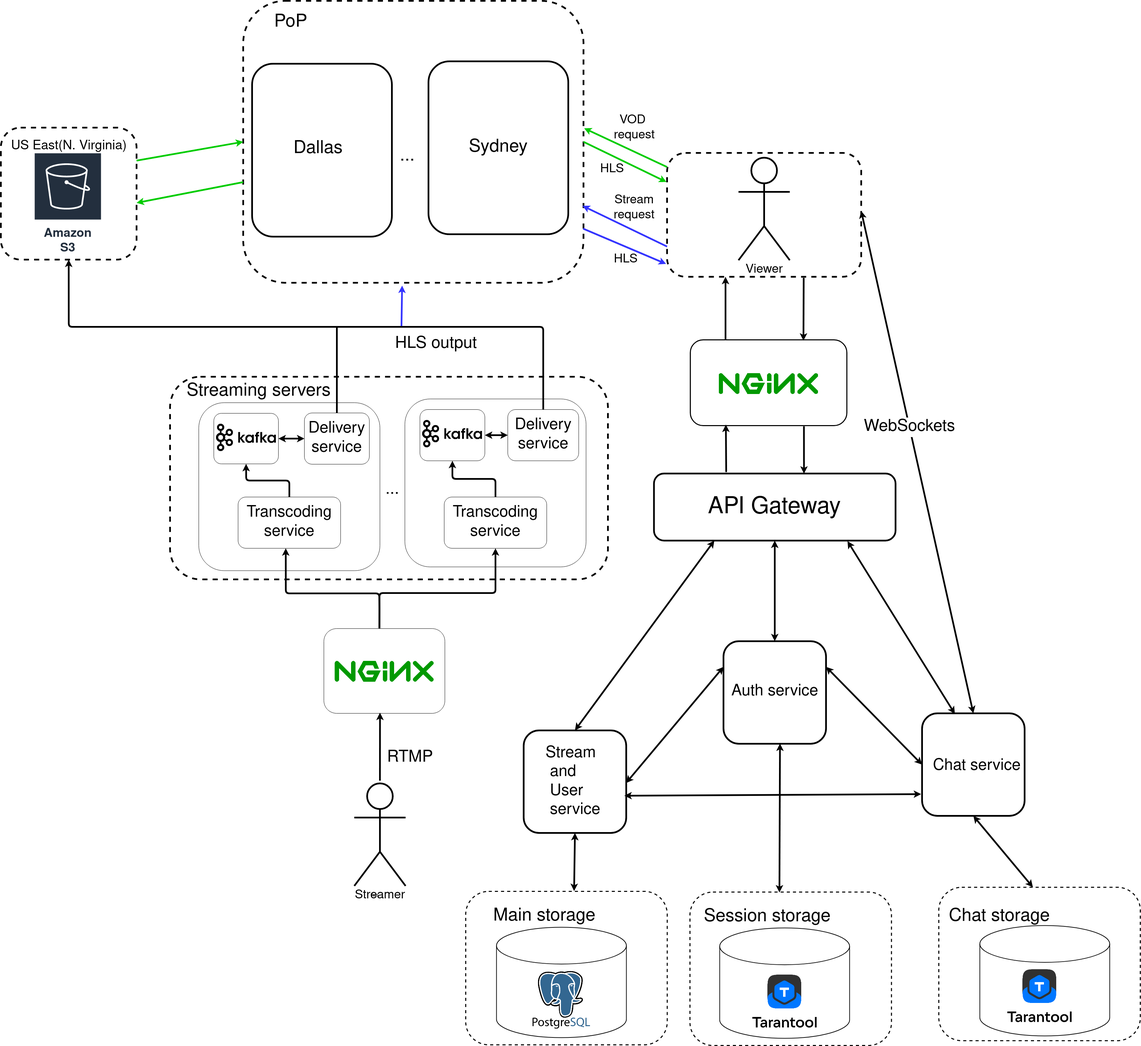
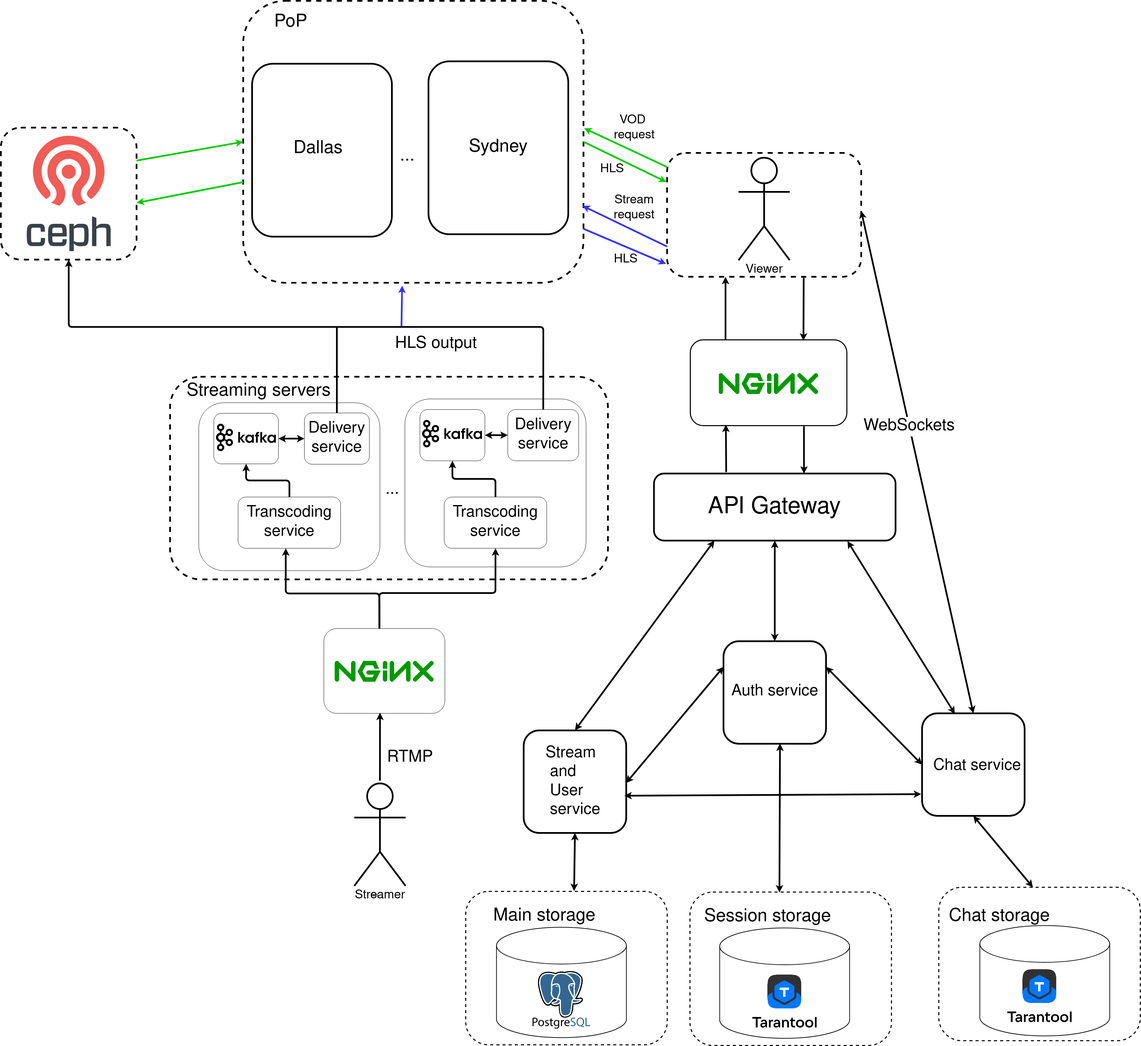
fix

Changed region(s): [[0.0312, 0.1241, 0.0935, 0.2483], [0.7789, 0.4035, 0.8101, 0.4345]]

diff --git a/README.md b/README.md
@@ -116,40 +116,55 @@
 | Компаньоны | 14 дней       |
 | Остальные  | 7 дней        |
 
-По [статистике](https://streamscharts.com/overview/partners) общее количество партнеров Twitch составляет **63 тыс**, а общее число компаньонов — **2.1 млн**.
-Пусть каждый партнер проводит 5 трансляций в неделю (в месяц примерно 24 трансляции), как указывалось выше средняя продолжительность трансляции — 2 часа, допустим, что партнеры производят больше контента, чем обычные пользователи и их трансляции длятся в **1.5 раза** больше и проводят трансляции в более хорошем качестве 1080 60fps. В этом случае битрейт будет составлять 6000kbps (по [рекомендациям][6] twitch), тогда на хранение трансляций партнеров за 2 месяца требуется:
+По [статистике](https://streamscharts.com/overview/partners) общее количество партнеров Twitch составляет **63 тыс**, компаньонов — **2.1 млн**, останльных - **14.5 млн**. Каждый день проводиться около 1.3 \* 10^6 трансляций. Вычислим сколько трансляций в день проводит каждая из категорий.
+
+Партнеры:
 
 $$
-6000 \times 3 \times 60 \times 60 \times 63000 \times 48 \approx 22 \ \text{ПБайт}
+	\frac{63 \times 10^3}{63 \times 10^3 + 2.1 \times 10^6 + 14.5 \times 10^6} \times 1.3 \times 10^6 \approx 4915
 $$
 
-Для компаньонов возьмем те же характеристики, тогда на хранение трансляций компаньонов за 14 дней необходимо:
+Компаньоны:
 
 $$
-6000 \times 3 \times 60 \times 60 \times 2.1 \times 10^{6} \times 10 \approx 155 \ \text{ПБайт}
+	\frac{2.1 \times 10^6}{63 \times 10^3 + 2.1 \times 10^6 + 14.5 \times 10^6} \times 1.3 \times 10^6 \approx 163836
 $$
 
-Для всех остальных(их примерно [14.5 млн](https://streamscharts.com/overview/partners) — в статистике учитывались только каналы с средним количеством зрителей 5 и более) возьмем следующие характеристики:
-
-- Качество — 720p
-- Частота кадров — 60fps
-- Продолжительность трансляции $\approx$ 2 часа
-- Количество трансляций в неделю — 4
-  Итого: 213 ПБайт необходимо на хранение трансляций пользователй
+Остальные:
 
 $$
-4500 \times 2 \times 60 \times 60 \times 4 \times 14.5 \times 10^{6} \approx 213 \ \text{ПБайт}
+\frac{14.5 \times 10^6}{63 \times 10^6 + 2.1 \times 10^6 + 14.5 \times 10^6} \times 1.3 \times 10^6 \approx 1131249
 $$
 
-| Категория пользователей | Размер хранилища, ПБайт |
-| :---------------------- | :---------------------- |
-| Партнеры                | 22                      |
-| Компаньоны              | 155                     |
-| Остальные               | 213                     |
+Объем диска для партнеров:
+
+$$
+4915 \times 6000 \times 2 \times 60 \times 60 \times 60 \approx 1.45 \ \text{PB}
+$$
+
+Объем диска для компаньонов:
+
+$$
+163836 \times 6000 \times 2 \times 60 \times 60 \times 14 \approx 11.27 \ \text{PB}
+$$
+
+Объем диска для остальных:
+
+$$
+1131249 \times 6000 \times 2 \times 60 \times 60 \times 7 \approx 39 \ \text{PB}
+$$
+
+| Категория  | Размер хранилища, ПБ |
+| :--------- | :------------------- |
+| Партнеры   | 1.45                 |
+| Компаньоны | 11.27                |
+| Остальные  | 39                   |
+
+**Суммарный объем хранилища:** 51.72 ПБ
 
 ##### Промежуточное хранилище
 
-Чтобы улучшать производительность потока для зрителей нужно буфферизировать некторый отрезок трансляции. Будем буфферизировать последние **30 секунд** трансляции. [Самое большое число одновременных трансляций](https://twitchtracker.com/statistics/channels) составляет 233 935. Рассчитаем размер промежуточного хранилища, считая что трансляции ведутся в 720p 60fps с битрейтом 4500kbps.
+Чтобы улучшать производительность потока для зрителей нужно буфферизировать некторый отрезок трансляции. Будем буфферизировать последние **30 секунд** трансляции. [Самое большое число одновременных трансляций](https://twitchtracker.com/statistics/channels) составляет 233 935. Рассчитаем размер промежуточного хранилища, считая что трансляции ведутся в 1080p 30fps с битрейтом 4500kbps.
 
 $$
 4500 \times 30 \times 234\ 000 \approx 4 \ ТБайт
@@ -427,7 +442,7 @@ DNS-сервер **Bind** [предоставляет](https://kb.isc.org/docs/a
 Нагрузка на чтение сообщений незначительная, т.к сообщения пересылаются сразу всем
 активным зрителям трансляции, чат доступен только с того момента, как зритель присоединился к трансляции.
 
-Нагрузка запись в **follows** рассчитана на основе [данных о приросте подписчиков за последние 30 дней](https://twitchtracker.com/channels/followers-growth).
+Наг��узка запись в **follows** рассчитана на основе [данных о приросте подписчиков за последние 30 дней](https://twitchtracker.com/channels/followers-growth).
 
 ## 6. Физическая схема БД
 
@@ -477,10 +492,11 @@ DNS-сервер **Bind** [предоставляет](https://kb.isc.org/docs/a
 | Go           | Основной язык бекенда                     | Простота написания, параллелизм из коробки, удобные инструменты для отладки и тестирования |
 | Typescript   | Основной язык фронтенда                   | Типизация, отлов ошибок на этапе компилаяции                                               |
 | React        | Фронтенд фреймворк                        | Скорость написание, активное сообщество, компонентный подход                               |
-| Envoy        | L7 балансировщик, Sidecar proxy           | Активное сообщество, нативный прокси в Istio                                               |
+| Nginx        | L7 балансировщик                          | Активное сообщество                                                                        |
+| Envoy        | Sidecar proxy                             | нативный прокси в Istio                                                                    |
 | RTMP         | Протокол стриминга                        | Поддержка со стороны популярных программ для потокового вещания.                           |
 | HLS          | Протокол стриминга                        | Поддержка адаптивного битрейта.                                                            |
-| Amazon S3    | Хранение статики и видеочанков            | Простота использования                                                                     |
+| Ceph         | Хранение видеочанков                      | Масштабируемость, высокая отказоустойчивость                                               |
 | Clickhouse   | Хранение логов                            | Горизонтальная масштабируемость, отказоустойчивость                                        |
 | Apache Kafka | Брокер сообщений                          | Надежность, высокая пропускная способность                                                 |
 | Tarantool    | Хранение сессий, чата активных трансляций | Высокая производительность, совместимость с golang                                         |
@@ -496,43 +512,65 @@ DNS-сервер **Bind** [предоставляет](https://kb.isc.org/docs/a
 Вычислительные ресурсы на обработку входящего видеопотока в первую очередь отдаются партнерам и компаньонам, а потом обычным стримерам
 (Twitch так и поступает, иногда при просмотре трансляции не крупного стримера, можно заметить, что качество трансляции ограниченно 720p)
 
-| БД         | Способ обеспечения надежности                                                                                                |
-| ---------- | ---------------------------------------------------------------------------------------------------------------------------- |
-| PostgreSQL | асинхронная Master-Slave репликация с использованием Patroni и etcd для автоматической смены Master узла в случае его отказа |
-| Kafka      | Репликация с фактором репликации 3.                                                                                          |
-| Tarantool  | Master-Slave репликация                                                                                                      |
+| БД         | Способ обеспечения надежности                                                                                                           |
+| ---------- | --------------------------------------------------------------------------------------------------------------------------------------- |
+| PostgreSQL | асинхронная Master-Slave репликация с использованием Patroni и etcd для автоматической смены Master узла в случае его отказа            |
+| Kafka      | Репликация с фактором репликации 3.                                                                                                     |
+| Tarantool  | Master-Master репликация c полной ячеистой топологией                                                                                   |
+| Ceph       | Репликация данных с фактором репликации 3. Минимальное число OSD для подтверждения успешного сохранения - 2(главный OSD и одна реплика) |
+
+| Сервис            | Расположение                           | Замечания                                                                                                                                                                        |
+| ----------------- | -------------------------------------- | -------------------------------------------------------------------------------------------------------------------------------------------------------------------------------- |
+| Ceph-MON          | Все датацентры                         | В каждом ДЦ располагается по серверу с Ceph-MON. В одном из ДЦ ставим два инстанса(например в Нью-Йорке), т.к всего ДЦ - 16. Нечетное количество нужно для избежания split-brain |
+| Ceph-OSD          | Все датацентры                         | Располагается в каждом ДЦ, примерно в равном количестве серверов                                                                                                                 |
+| PostgreSQL        | Все датацентры                         | Master распологается в ДЦ Нью-Йорк, в остальных ДЦ асинхронные реплики.                                                                                                          |
+| Tarantool         | Все датацентры                         | Располагается в каждом ДЦ для улучшения надежности хранения сообщений                                                                                                            |
+| Transocding       | Во всех Origin ДЦ                      | -                                                                                                                                                                                |
+| Delivery          | Во всех Origin ДЦ                      | -                                                                                                                                                                                |
+| Auth              | Несколько экземпляров в каждом регионе | В каждом регионе по два экземпляра в разных ДЦ                                                                                                                                   |
+| Streams and Users | Несколько экземпляров в каждом регионе | В каждом регионе по два экземпляра в разных ДЦ                                                                                                                                   |
+| Chat              | Несколько экземпляров в каждом регионе | В каждом регионе по два экземпляра в разных ДЦ                                                                                                                                   |
+| Edge              | Все датацентры                         | -                                                                                                                                                                                |
+| Ingest            | Все датацентры                         | -                                                                                                                                                                                |
+
+### Распределение серверов по датацентрам
 
 ## 10. Рассчет ресурсов
 
 ### Распределение ресурсов по сервисам
 
-Для рассчета ресурсов под сервис транскодирования возьмем данные из [10]
-Для рассчета ресурсов под сервис чата возьмем данные из [11]
+Для рассчета ресурсов под сервис транскодирования возьмем данные из \[[10]\]
+Для рассчета ресурсов под сервис чата возьмем данные из \[[11]\]
 
-| Сервис                    | Целевая пиковая нагрузка приложения | CPU   | RAM     | Net      |
-| ------------------------- | ----------------------------------- | ----- | ------- | -------- |
-| Edge(раздача видеопотока) | 1.8 \* 10^6 RPS                     | 730   | 36 ГБ   | 17 Тб/с  |
-| Ingest(прием видеопотока) | 130000 Connections                  | 100   | 20 ГБ   | 557 Гб/с |
-| API Gateway               | 3392 RPS                            | 330   | 30 ГБ   | 20 ГБ/с  |
-| Transcoding               | 130000 Parallel streams             | 22690 | -       | 557 ГБ/с |
-| Streams and Users         | 2316 RPS                            | 200   | 23 ГБ   | 10 Гб/с  |
-| Auth                      | 1076 RPS                            | 108   | 10 ГБ   | 2 Гб/c   |
-| Delivery                  | 130000 Parallel Streams             | 5200  | 558 ГБ  | 4 Тб/с   |
-| Chat                      | 4 \* 10^6 Connections               | 1340  | 1178 ГБ | 3 Гб/с   |
+| Сервис                    | Целевая пиковая нагрузка приложения | CPU   | RAM     | Net      | GPU  |
+| ------------------------- | ----------------------------------- | ----- | ------- | -------- | ---- |
+| Edge(раздача видеопотока) | 1.8 \* 10^6 RPS                     | 730   | 36 ГБ   | 17 Тб/с  | -    |
+| Ingest(прием видеопотока) | 130000 Connections                  | 100   | 20 ГБ   | 557 Гб/с | -    |
+| API Gateway               | 3392 RPS                            | 330   | 30 ГБ   | 20 ГБ/с  | -    |
+| Transcoding               | 130000 Parallel streams             | 22690 | -       | 557 ГБ/с | 2960 |
+| Streams and Users         | 2316 RPS                            | 200   | 23 ГБ   | 10 Гб/с  | -    |
+| Auth                      | 1076 RPS                            | 108   | 10 ГБ   | 2 Гб/c   | -    |
+| Delivery                  | 130000 Parallel Streams             | 5200  | 558 ГБ  | 4 Тб/с   | -    |
+| Chat                      | 4 \* 10^6 Connections               | 1340  | 1178 ГБ | 3 Гб/с   | -    |
 
 ### Конфигурация серверов
 
-| Сервис                    | Хостинг | Конфигурация                         | GPU                 | Cores | Cnt | Цена    |
-| ------------------------- | ------- | ------------------------------------ | ------------------- | ----- | --- | ------- |
-| Edge(раздача видеопотока) | own     | 1x6448Y/2x32GB/2xNVMe8T/1x50Gb/s     | -                   | 32    | 435 | €9,493  |
-| Ingest(прием видеопотока) | own     | 1x6448Y/2x16GB/1xNVMe256GB/1x25Gb/s  | -                   | 32    | 30  | €7,715  |
-| Auth                      | own     | 1x6448Y/2x16GB/1xNVMe256GB/1x10GB/s  | -                   | 32    | 7   | €7,688  |
-| Streams and Users         | own     | 1x6448Y/2x16GB/1xNVMe256GB/1x10GB/s  | -                   | 32    | 8   | €7,688  |
-| Transcoding               | own     | 2x6421N/16x32GB/1xNVMe256GB/1x10Gb/s | 8 x NVIDIA Tesla L4 | 64    | 370 | €38,566 |
-| Delivery                  | own     | 2x6448Y/2x32GB/1xNVMe256GB/1x50Gb/s  | -                   | 64    | 102 | €13,263 |
-| Chat                      | own     | 1x6448Y/2x16GB/1xNVMe256GB/1x10Gb/s  | -                   | 32    | 42  | €7,688  |
-| API Gateway               | own     | 1x6448Y/2x16GB/1xNVMe256GB/1x25Gb/s  | -                   | 32    | 12  | €7,715  |
-| Балансировщики            | own     | 1x6448Y/2x16GB/1xNVMe256GB/1x25Gb/s  | -                   | 32    | 16  | €7,715  |
+| Сервис                    | Хостинг | Конфигурация                                  | GPU                 | Cores | Cnt | Цена    |
+| ------------------------- | ------- | --------------------------------------------- | ------------------- | ----- | --- | ------- |
+| Edge(раздача видеопотока) | own     | 1x6448Y/2x32GB/2xNVMe8T/1x50Gb/s              | -                   | 32    | 435 | €9,493  |
+| Ingest(прием видеопотока) | own     | 1x6448Y/2x16GB/1xNVMe256GB/1x25Gb/s           | -                   | 32    | 30  | €7,715  |
+| Auth                      | own     | 1x6448Y/2x16GB/1xNVMe256GB/1x10GB/s           | -                   | 32    | 10  | €7,688  |
+| Streams and Users         | own     | 1x6448Y/2x16GB/1xNVMe256GB/1x10GB/s           | -                   | 32    | 8   | €7,688  |
+| Transcoding               | own     | 2x6421N/16x32GB/1xNVMe256GB/1x10Gb/s          | 8 x NVIDIA Tesla L4 | 64    | 370 | €38,566 |
+| Delivery                  | own     | 2x6448Y/2x32GB/1xNVMe256GB/1x50Gb/s           | -                   | 64    | 102 | €13,263 |
+| Chat                      | own     | 1x6448Y/2x16GB/1xNVMe256GB/1x10Gb/s           | -                   | 32    | 42  | €7,688  |
+| API Gateway               | own     | 1x6448Y/2x16GB/1xNVMe256GB/1x25Gb/s           | -                   | 32    | 12  | €7,715  |
+| Балансировщики            | own     | 1x6448Y/2x16GB/1xNVMe256GB/1x25Gb/s           | -                   | 32    | 16  | €7,715  |
+| Tarantool                 | own     | 1x6418H/8x64GB/1xNVMe512GB/1x25Gb/s           | -                   | 24    | 16  | €7,708  |
+| PostgreSQL                | own     | 1x6418H/4x32GB/2xHDD2TB/1x10GB/s              | -                   | 24    | 32  | €6,143  |
+| Kafka                     | own     | 2x5318N/8x32GB/2xSSD1.9TB/1x10GB/s            | -                   | 64    | 21  | €9,015  |
+| Ceph-MON                  | own     | 1x6430/8x32GB/1xNVMe512GB/1x25Gb/s            | -                   | 32    | 17  | €6,161  |
+| Ceph-OSD                  | own     | 1x6338/8x32GB/1xNVMe960GB/36xHDD20TB/1x25Gb/s | -                   | 32    | 225 | €23,192 |
 
 ## Источники
 
@@ -547,6 +585,7 @@ DNS-сервер **Bind** [предоставляет](https://kb.isc.org/docs/a
 9. https://blog.twitch.tv/en/2022/04/26/ingesting-live-video-streams-at-global-scale/
 10. https://www.wowza.com/docs/wowza-transcoder-performance-benchmark
 11. https://www.nginx.com/blog/nginx-websockets-performance/
+12. https://docs.ceph.com/en/reef/start/hardware-recommendations/
 
 [1]: https://twitchtracker.com/statistics
 [2]: https://www.demandsage.com/twitch-users/
@@ -559,3 +598,4 @@ DNS-сервер **Bind** [предоставляет](https://kb.isc.org/docs/a
 [9]: https://blog.twitch.tv/en/2022/04/26/ingesting-live-video-streams-at-global-scale/
 [10]: https://www.wowza.com/docs/wowza-transcoder-performance-benchmark
 [11]: https://www.nginx.com/blog/nginx-websockets-performance/
+[12]: https://docs.ceph.com/en/reef/start/hardware-recommendations/
